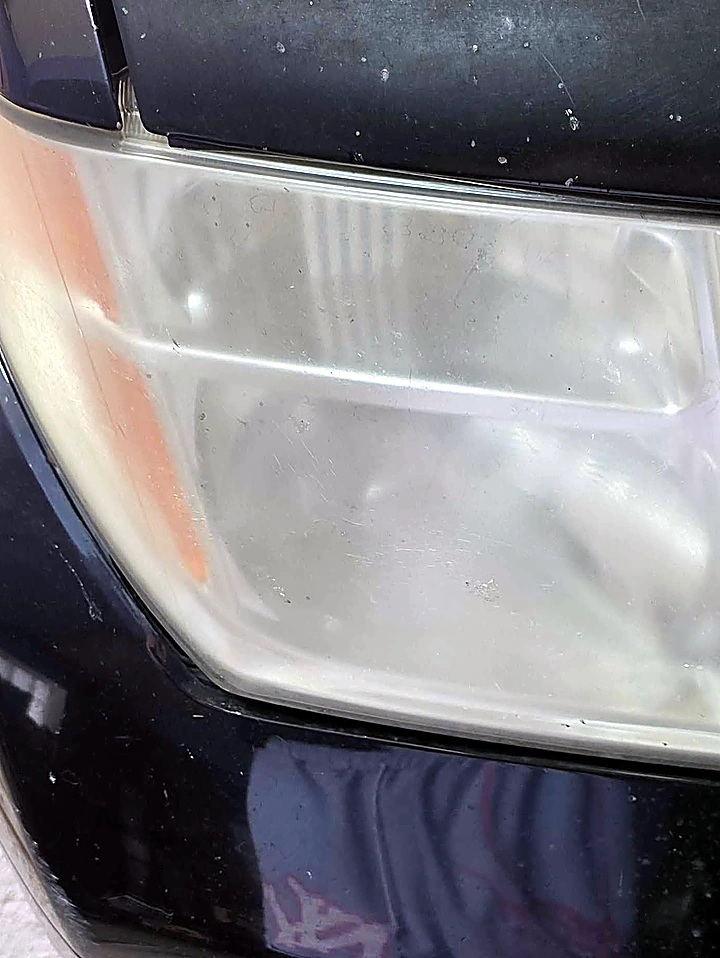
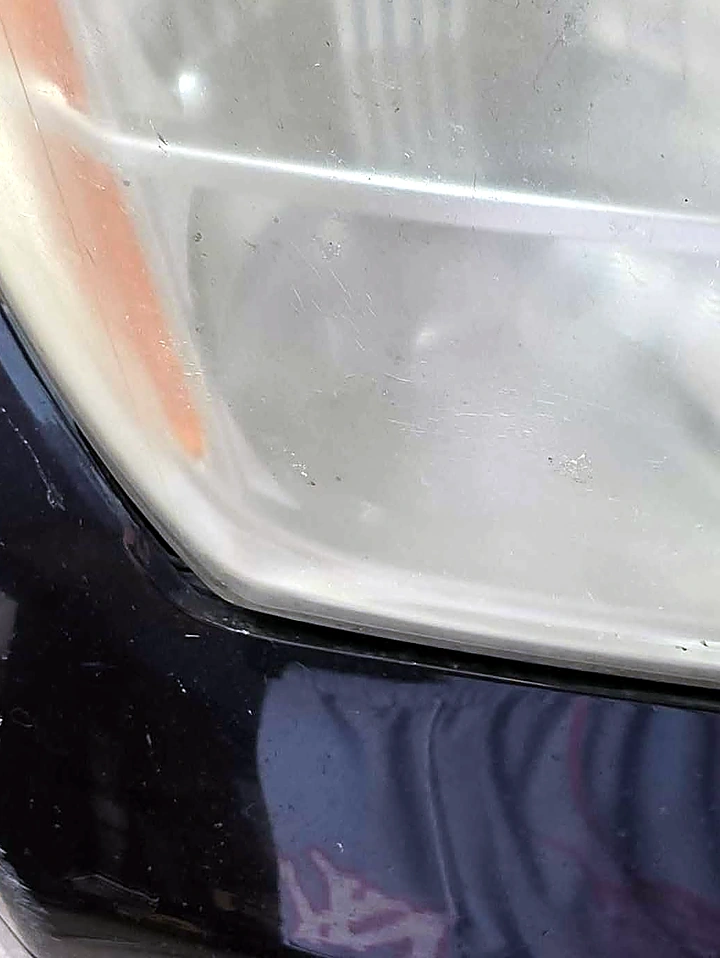
deploy: tighten BrightRoute before-after framing

diff --git a/index.html b/index.html
@@ -19,8 +19,8 @@
   <link rel="icon" type="image/png" sizes="48x48" href="/assets/favicons/icon-48-centered.png" />
   <link rel="apple-touch-icon" sizes="180x180" href="/assets/favicons/icon-180.png" />
   <link rel="manifest" href="/assets/favicons/site.webmanifest" />
-  <link rel="preload" as="image" href="assets/gallery-before-foggy-nissan.webp?v=20260706-photo-refresh" />
-  <link rel="preload" as="image" href="assets/gallery-after-clear-nissan.webp?v=20260706-photo-refresh" />
+  <link rel="preload" as="image" href="assets/gallery-before-foggy-nissan.webp?v=20260706-framing-match" />
+  <link rel="preload" as="image" href="assets/gallery-after-clear-nissan.webp?v=20260706-framing-match" />
   <link rel="stylesheet" href="styles.css?v=1.3" />
   <script type="application/ld+json">
   {
@@ -101,10 +101,10 @@
         <figure class="hero-proof-card hero-slider-shell">
           <div class="comparison hero-comparison before-after-slider" data-slider style="--split:58%;">
             <div class="ba-layer ba-layer-before">
-              <img class="ba-image ba-image-before" src="assets/gallery-after-clear-nissan.webp?v=20260706-photo-refresh" alt="Clear headlight after restoration" />
+              <img class="ba-image ba-image-before" src="assets/gallery-after-clear-nissan.webp?v=20260706-framing-match" alt="Clear headlight after restoration" />
             </div>
             <div class="ba-layer ba-layer-after">
-              <img class="ba-image ba-image-after" src="assets/gallery-before-foggy-nissan.webp?v=20260706-photo-refresh" alt="Cloudy oxidized headlight before restoration" />
+              <img class="ba-image ba-image-after" src="assets/gallery-before-foggy-nissan.webp?v=20260706-framing-match" alt="Cloudy oxidized headlight before restoration" />
             </div>
             <span class="hero-label hero-label-left">Before</span>
             <span class="hero-label hero-label-right">After</span>
@@ -153,11 +153,11 @@
         <article class="result-card wide">
           <div class="comparison large before-after-static">
             <figure class="ba-panel ba-before">
-              <img src="assets/gallery-before-foggy-nissan.webp?v=20260706-photo-refresh" alt="Before restoration cloudy headlight" loading="lazy" />
+              <img src="assets/gallery-before-foggy-nissan.webp?v=20260706-framing-match" alt="Before restoration cloudy headlight" loading="lazy" />
               <figcaption>Before</figcaption>
             </figure>
             <figure class="ba-panel ba-after">
-              <img src="assets/gallery-after-clear-nissan.webp?v=20260706-photo-refresh" alt="After restoration clear headlight" loading="lazy" />
+              <img src="assets/gallery-after-clear-nissan.webp?v=20260706-framing-match" alt="After restoration clear headlight" loading="lazy" />
               <figcaption>After</figcaption>
             </figure>
           </div>